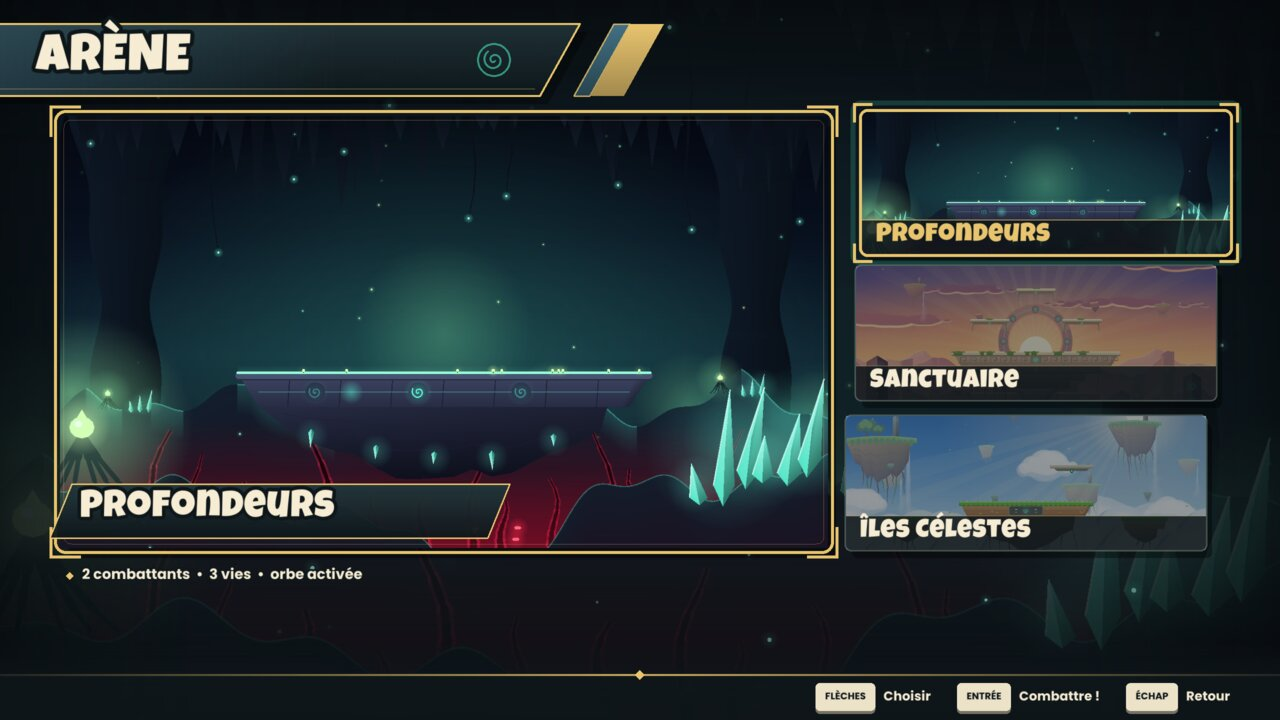
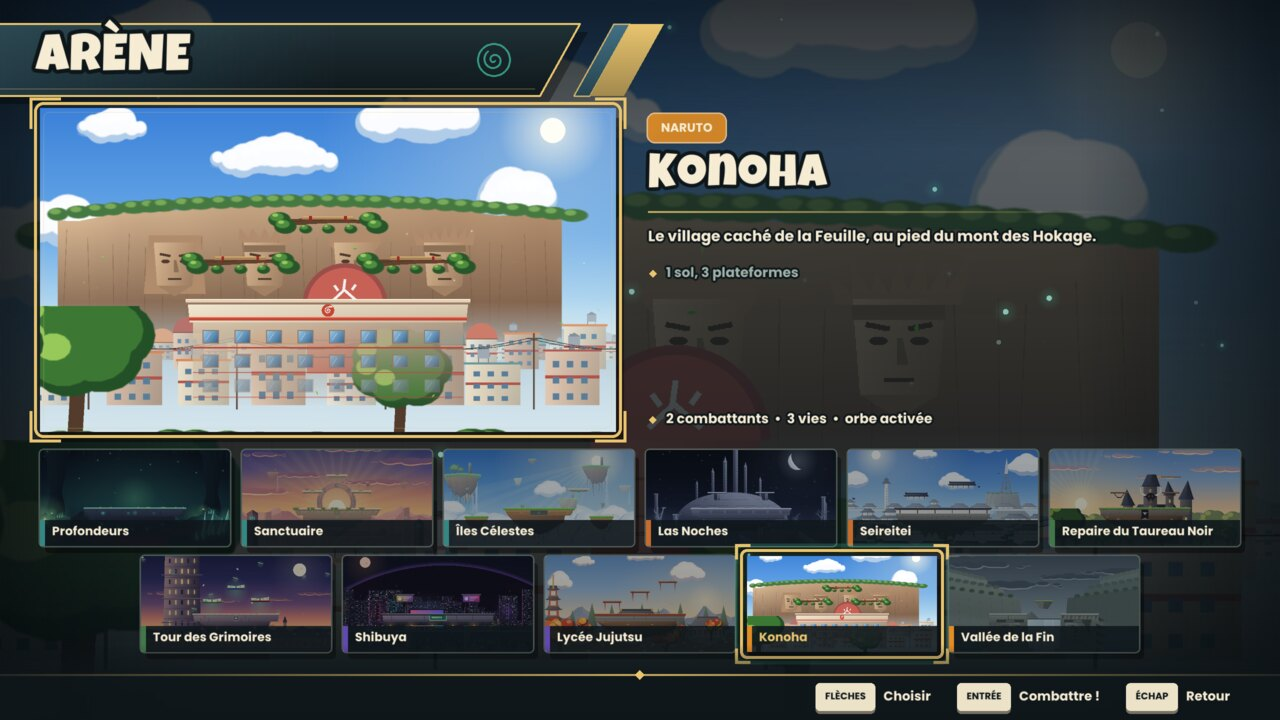
Version 6.0: README, screenshots and archives for the anime stages and new fighters
- README: 17 fighters (Grimmjow and Starrk in the table, Ichigo's new
  ultimates), 51 ultimates, the 11 stages, the new animations and effects,
  the dev filmstrips and --record, the tests on every stage.
- New screenshots: the eight anime stages, the stage select, the Valley of
  the End, Naruto's animation filmstrips; title and character select
  refreshed.
- Archive notices list the new fighters and stages; title screen and
  package script at 6.0.

Claude-Session: https://claude.ai/code/session_01FnHjUgjm12ACzaJgKtXDcE

diff --git a/src/game/screen_title.cpp b/src/game/screen_title.cpp
@@ -157,7 +157,7 @@ void App::drawTitle() {
     drawTextOutlined(txt, x, 368, 26, withAlpha(ui::kCream, a), withAlpha(ui::kInk, a), 2.5f);
     ui::prompt("ENTRÉE", ui::Btn::Start, x + textWidth(txt, 26) + 14, 381 - ph * 0.5f, ph, true);
   }
-  drawTextOutlined("v5.0", kScreenW - 54, kScreenH - 26, 15, ui::kCream, ui::kInk, 2.0f);
+  drawTextOutlined("v6.0", kScreenW - 54, kScreenH - 26, 15, ui::kCream, ui::kInk, 2.0f);
   drawTextOutlined("C++ & raylib", 16, kScreenH - 26, 15, ui::kCream, ui::kInk, 2.0f);
   if (f >= 22 && f < 40) DrawRectangle(0, 0, kScreenW, kScreenH, withAlpha({255, 248, 228, 255}, (40 - f) / 18.0f * 0.7f));
 }

diff --git a/tests/sim_test.cpp b/tests/sim_test.cpp
@@ -420,7 +420,7 @@ static void testWeapons() {
 
 // Every ultimate (bare-handed and with each weapon) hits, lets its victim go, and can KO at high percent.
 static void testAllUltimates() {
-  std::printf("[the 45 ultimates]\n");
+  std::printf("[every ultimate: 3 per fighter]\n");
   const int n = int(roster().size());
   for (int c = 0; c < n; ++c) {
     for (int slot = -1; slot <= 1; ++slot) {

diff --git a/README.md b/README.md
@@ -11,11 +11,12 @@ les arènes et les effets restent lisses. Les sons et la musique sont synthétis
 ressources sont deux polices libres et la base de manettes SDL, intégrées directement dans l'exécutable :
 il n'y a aucun fichier à installer à côté.
 
-La direction artistique des arènes s'inspire de *Zelda: Tears of the Kingdom* : îles célestes, ruines
-Zonaï aux runes turquoise, profondeurs éclairées par des racines lumineuses. Tout est dessiné par le code
-(aucune image ni logo repris d'un jeu ou d'un manga).
+Les trois arènes d'origine s'inspirent de *Zelda: Tears of the Kingdom* (îles célestes, ruines Zonaï aux
+runes turquoise, profondeurs éclairées par des racines lumineuses) et **huit autres viennent des animes** :
+deux par série, de Las Noches à la Vallée de la Fin. Tout est dessiné par le code (aucune image ni logo
+repris d'un jeu ou d'un manga).
 
-| Menu principal | Sélection des 15 combattants |
+| Menu principal | Sélection des 17 combattants |
 |---|---|
 | ![Menu principal](docs/menu.jpg) | ![Sélection](docs/selection.jpg) |
 | **Combat : Kenpachi, Sasuke, Naruto et le Chasseur** | **Cut-in d'ultime : Bijūdama (Naruto)** |
@@ -26,11 +27,24 @@ Zonaï aux runes turquoise, profondeurs éclairées par des racines lumineuses. 
 | ![Impact frame](docs/impact.jpg) | ![Entraînement](docs/entrainement.jpg) |
 | **Paramètres (pixel art)** | **Résultats** |
 | ![Paramètres](docs/parametres.jpg) | ![Résultats](docs/resultats.jpg) |
+| **Choix de l'arène : 11 arènes** | **Vallée de la Fin : Naruto contre Sasuke sur les statues** |
+| ![Choix de l'arène](docs/arene.jpg) | ![Vallée de la Fin](docs/vallee.jpg) |
 
-**Chaque ultime est unique** (45 en tout) : Vasto Lorde, Violet imaginaire, Amaterasu, Kendō, Sanctuaire
-démoniaque, Shuriken du Susanoo, Barrage Uzumaki, Fouet du Chaos, Dragon de lumière...
+**Les huit arènes des animes** : Las Noches, le Seireitei, le repaire du Taureau Noir, la Tour des
+Grimoires, Shibuya, le lycée Jujutsu, Konoha et la Vallée de la Fin.
 
-![Neuf des 45 ultimes](docs/ultimes.jpg)
+![Les huit arènes des animes](docs/arenes.jpg)
+
+**Les animations** (planche de développement `--screen anim`) : la marche et la course suivent le sol,
+Naruto court en ninja, les coups engagent tout le corps.
+
+![Animations de Naruto](docs/animations.jpg)
+
+**Chaque ultime est unique** (51 en tout) : Getsuga Tenshō, Vasto Lorde, Gran Rey Cero, Cero Metralleta,
+Violet imaginaire, Amaterasu, Kendō, Sanctuaire démoniaque, Shuriken du Susanoo, Barrage Uzumaki, Fouet du
+Chaos, Dragon de lumière...
+
+![Neuf des ultimes](docs/ultimes.jpg)
 
 ## Le jeu
 
@@ -40,16 +54,18 @@ démoniaque, Shuriken du Susanoo, Barrage Uzumaki, Fouet du Chaos, Dragon de lum
 - **Entraînement** : vies infinies face à un **mannequin** (immobile, qui saute, qui se protège, ou
   piloté par l'ordinateur), réinitialisation des positions, **compteur de combos** et dégâts du combo,
   affichage des zones de coup. Tout se règle dans le menu pause.
-- **15 combattants** inspirés de séries cultes (hommages de fans, dessinés par le code), chacun avec ses
+- **17 combattants** inspirés de séries cultes (hommages de fans, dessinés par le code), chacun avec ses
   stats, 4 attaques spéciales, **2 armes à ramasser** et **3 ultimes** : un à mains nues et un par arme.
   | | Univers | Spéciales | Ultime | Arme 1 → son ultime | Arme 2 → son ultime |
   |---|---|---|---|---|---|
   | **ASTA** | Black Clover | Lame anti-magie, Météore noir, Ouragan noir, Renvoi anti-magie (renvoie les projectiles) | Black Divider | Épée pourfendeuse → Black Meteorite (monte avec sa victime et retombe comme un météore) | Épée habitante → Union démoniaque (transformation : aile et bras du diable) |
   | **YUNO** | Black Clover | Lames de vent, Tempête tranchante (tornade qui aspire), Envol de Sylphe, Tourbillon | Tempête de Zéphyr | Grimoire à quatre trèfles → Pluie de lames (sur tous les adversaires) | Lance de l'esprit → Lance de Zéphyr (aspire tout sur son passage) |
-  | **ICHIGO** | Bleach | Getsuga Tenshō, Shunpo, Tsukiyomi, Cero (rayon) | Mugetsu (cheveux longs du Getsuga final) | Zangetsu (Shikai) → Getsuga Tenshō géant | Tensa Zangetsu (Bankai) → Vasto Lorde : il se transforme, attrape l'adversaire et lui tire un méga Cero à bout portant |
+  | **ICHIGO** | Bleach | Getsuga Tenshō, Shunpo, Tsukiyomi, Cero (rayon) | Getsuga Tenshō (un croissant géant, au Shikai) | Zangetsu (Shikai) → Getsuga Jūjishō (deux Getsuga en croix) | Tensa Zangetsu (Bankai) → Vasto Lorde : il se transforme, attrape l'adversaire et lui tire un méga Cero à bout portant |
   | **BYAKUYA** | Bleach | Senbonzakura (nuée de pétales), Senka (attaque dans le dos), Shunpo céleste, Danku | Senbonzakura Kageyoshi (immobilise tout le monde dans la tempête) | Senbonzakura (Shikai) → Gōkei (une sphère de lames autour de chaque adversaire) | Kageyoshi (Bankai) → Shūkei : Hakuteiken (ailes de lumière) |
   | **KENPACHI** | Bleach | Taille du démon (à charger), Assaut sauvage (super armure), Saut du démon, Garde ouverte (contre) | Kendō : il apparaît devant l'adversaire, le frappe puis le pourfend à deux mains | Nozarashi (Shikai) → Taille de Nozarashi (fend l'arène) | Bankai → Démon rouge (transformation : peau rouge, cornes, super armure) |
   | **ULQUIORRA** | Bleach | Cero (rayon), Sonído, Sonído céleste, Bala | Cero Oscuras | Murciélago (Resurrección) → Lanza del Relámpago (javelot qui explose) | Segunda Etapa → transformation : corps noir, ailes de chauve-souris, queue |
+  | **GRIMMJOW** | Bleach | Cero, Desgarrón (griffes de reiatsu), Sonído griffu, Garra de la Pantera | Gran Rey Cero | Pantera (zanpakutō) → « Kishire, Pantera » (libération : cheveux longs, oreilles, queue, griffes) | Griffes de Pantera → Desgarrón (cinq griffes géantes) |
+  | **STARRK** | Bleach | Cero (rayon), Los Lobos (loups qui explosent), Sonído, Rafale de ceros | Cero Metralleta | Los Lobos (la meute) → Los Lobos (toute la meute) | Lilynette → Resurrección : Los Lobos (libération : manteau de fourrure, deux pistolets) |
   | **NARUTO** | Naruto | Rasengan (à charger), Multi-clonage (un clone court sur l'ennemi), Clone tremplin, Substitution (contre) | Barrage Uzumaki (les clones l'envoient en l'air) | Mode Ermite → Rasenshuriken | Chakra de Kurama → Bijūdama (le renard à neuf queues apparaît) |
   | **SASUKE** | Naruto | Katon : boule de feu, Chidori, Garuda, Chidori Nagashi | Kirin (le dragon de foudre tombe sur l'ennemi le plus proche) | Arc de Susanoo → Flèche d'Indra (Susanoo violet) | Mangekyō Sharingan → Amaterasu (flammes noires collées à chaque adversaire) |
   | **KAKASHI** | Naruto | Suiton : dragon aqueux, Raikiri, Shunshin, Ninken : crocs (saisie) | Raikiri | Sharingan → Kamui (un vortex sur l'ennemi le plus proche) | Mangekyō double → Shuriken du Susanoo (Susanoo bleu) |
@@ -90,15 +106,34 @@ démoniaque, Shuriken du Susanoo, Barrage Uzumaki, Fouet du Chaos, Dragon de lum
   (de loin pour les ultimes qui visent, face à la cible pour les rayons).
 - **L'Orbe Clash** (l'équivalent de la Smash Ball) : elle apparaît de temps en temps et flotte au-dessus
   de l'arène. Celui qui la brise **remplit d'un coup sa barre d'ulti**.
-- **3 arènes** : **Profondeurs** (abîme, racines lumineuses et cristaux), **Sanctuaire** (temple Zonaï en
-  ruine au soleil couchant) et **Îles Célestes** (îles flottantes, cascades, plateforme mobile).
-- **Animations** : transitions fluides entre les poses, élan et accompagnement des coups, postures propres
-  aux spéciales (bander un arc, mudras, bras levé, doigt pointé, taille à deux mains...), traînées des
-  attaques, étirements au saut et tassements à l'atterrissage, capes, écharpes et cheveux qui suivent
-  le mouvement, respiration et clignements d'yeux.
-- Effets : étincelles, traînées d'éjection, rayon de K.O., tremblement d'écran, bulles quand un
-  combattant est hors-champ, caméra dynamique, compte à rebours, « GAME ! », écran de résultats,
-  transitions animées entre les écrans.
+- **11 arènes**, chacune avec sa disposition :
+  - *Zelda* : **Profondeurs** (abîme, racines lumineuses et cristaux), **Sanctuaire** (temple Zonaï en
+    ruine au soleil couchant) et **Îles Célestes** (îles flottantes, cascades, plateforme mobile) ;
+  - *Bleach* : **Las Noches** (le palais des Espada sous la lune du Hueco Mundo, du sable qui coule des
+    corniches) et le **Seireitei** (murs blancs et toits de tuiles, la tour Senzaikyū, le Sōkyoku,
+    papillons de l'enfer) ;
+  - *Black Clover* : le **repaire du Taureau Noir** (un balai magique fait des allers-retours) et la
+    **Tour des Grimoires** au crépuscule (des grimoires flottent en montant et descendant) ;
+  - *Jujutsu Kaisen* : **Shibuya** sous le voile (néons, écran géant, un train passe sur le viaduc) et
+    le **lycée Jujutsu** en automne (pagode, torii, érables, passerelles en escalier) ;
+  - *Naruto* : **Konoha** (le mont des Hokage, la tour du Hokage, des branches comme plateformes) et la
+    **Vallée de la Fin** sous la pluie (on se bat sur les têtes des statues de Hashirama et Madara, la
+    cascade entre les deux).
+- **Animations** : la marche et la course sont réglées sur la distance parcourue (le pied posé ne glisse
+  pas), avec une vraie foulée, le talon qui remonte, le genou qui monte, un rebond à chaque pas et les
+  bras qui balancent ; Naruto, Sasuke et Kakashi courent en ninja (bras en arrière), les colosses
+  chargent comme des taureaux. Les coups engagent tout le corps : épaules et hanches qui tournent, pas en
+  avant, poing libre ramené à la hanche, bras écartés pour l'équilibre des coups de pied ; les smashs
+  s'arment beaucoup plus loin. Les ultimes commencent par une concentration d'énergie (jambes écartées,
+  poings aux hanches, cri), et la caméra se resserre sur l'ultime et ses victimes. Une victime éjectée
+  se plie d'abord autour du coup avant de tournoyer. Et toujours : transitions fluides entre les poses,
+  postures propres aux spéciales, traînées des attaques, étirements et tassements, capes et cheveux qui
+  suivent le mouvement, respiration et clignements d'yeux.
+- Effets : **compteur de combos** au-dessus de la victime (« 5 COUPS ! » et les dégâts du combo), la
+  victime s'illumine de l'élément du coup (feu, foudre, ténèbres...), les coups lourds **fissurent le
+  sol** et soulèvent des débris, les éjections mortelles crépitent d'éclairs ; étincelles, traînées
+  d'éjection, rayon de K.O., tremblement d'écran, bulles quand un combattant est hors-champ, caméra
+  dynamique, compte à rebours, « GAME ! », écran de résultats, transitions animées entre les écrans.
 
 ## Paramètres
 
@@ -182,9 +217,9 @@ afficher les zones de coup. Pour voir les boutons d'une manette sans en avoir un
 
 Deux archives prêtes à lancer se fabriquent avec `scripts/package_release.sh` (dans `dist/`) :
 
-- **Linux 64 bits** (`SuperClashBros-5.0-linux-x64.tar.gz`, Ubuntu 24.04 ou plus récent) : décompresser,
+- **Linux 64 bits** (`SuperClashBros-6.0-linux-x64.tar.gz`, Ubuntu 24.04 ou plus récent) : décompresser,
   puis dans un terminal ouvert dans le dossier : `./super_clash`.
-- **Windows 64 bits** (`SuperClashBros-5.0-windows-x64.zip`) : décompresser, puis double-cliquer sur
+- **Windows 64 bits** (`SuperClashBros-6.0-windows-x64.zip`) : décompresser, puis double-cliquer sur
   `super_clash.exe` (si Windows affiche « Windows a protégé votre ordinateur » : « Informations
   complémentaires » puis « Exécuter quand même »).
 
@@ -227,11 +262,13 @@ cmake -S . -B build -DCMAKE_BUILD_TYPE=Release -DFETCHCONTENT_SOURCE_DIR_RAYLIB=
 
 ```
 super_clash --demo            # match de démonstration entre 4 ordinateurs
-super_clash --demo --fighters 7,8   # ... avec ces combattants (numéros dans la grille, de 0 à 14)
+super_clash --demo --fighters 7,8   # ... avec ces combattants (numéros dans la grille, de 0 à 16)
 super_clash --demo --fighters 6,4 --ult 1   # le premier déclenche son ultime (-1 mains nues, 0 ou 1 : arme)
 super_clash --screen menu     # démarrer sur un écran : menu, settings, css, stage, training...
-super_clash --screen poses --tab 0   # planche de poses : chaque perso au repos, avec ses armes, en marche, en course, en saut (pages 0 à 2)
-super_clash --stage 2         # arène par défaut (0, 1 ou 2)
+super_clash --screen poses --tab 0   # planche de poses : chaque perso au repos, avec ses armes, en marche, en course, en saut (pages 0 à 3)
+super_clash --screen anim --tab 32   # pellicules d'animation : combattant N/4, page N%4 (allures, jabs, smashs, spéciales et ultime)
+super_clash --stage 10        # arène par défaut (0 à 10, dans l'ordre de l'écran de choix)
+super_clash --demo --record 300 480 2 dossier   # enregistre une image sur 2 de 300 à 480 (pour des GIF)
 super_clash --debug           # zones de coup visibles
 super_clash --export-audio d  # écrit tous les sons et musiques en .wav dans le dossier d
 ```
@@ -249,8 +286,9 @@ cmake --build build-core -j
 Les tests vérifient la formule de recul, les coups, les K.O., chaque commande clavier (petit/grand saut,
 smash/tilt, aériennes, bouclier, roulade, saisie, rebord, plateformes), la barre d'ulti, l'Orbe Clash et
 l'attaque finale,
-le mode entraînement, la remontée de chaque personnage depuis le vide, des dizaines de matchs complets
-entre ordinateurs, l'équilibrage et le déterminisme. Les **45 attaques finales** (une de base et une par
+le mode entraînement, la remontée de chaque personnage depuis le vide (des deux côtés de chaque arène et
+depuis le trou de la Vallée de la Fin), des dizaines de matchs complets entre ordinateurs sur chacune des
+11 arènes, l'équilibrage et le déterminisme. Les **51 attaques finales** (une de base et une par
 arme pour chaque combattant) sont lancées une par une : chacune doit infliger des dégâts, relâcher l'adversaire qu'elle a
 attrapé et l'éjecter à 130 % (les transformations comme la Rage de Spartiate ou le Démon rouge doivent
 s'activer). Un coup porté
@@ -264,11 +302,11 @@ On peut ne lancer qu'une partie des tests : `./build-core/sim_test ults`, `cpu10
 ```
 src/core/   simulation pure (aucune dépendance)
   moves.hpp            données : hitboxes, projectiles, attaques, personnages
-  roster*.cpp          les 15 combattants, leurs attaques et leurs armes
+  roster*.cpp          les 17 combattants, leurs attaques et leurs armes
   roster_kit.hpp       outils communs pour écrire les attaques (saisies, éjections, ciné d'ulti)
-  roster_ultimates.cpp les 45 attaques finales et les transformations
+  roster_ultimates.cpp les 51 attaques finales et les transformations
   weapons.cpp          armes qui tombent du ciel, ramassage, durée
-  stage.cpp            les arènes
+  stage.cpp            les 11 arènes (disposition, zones de K.O.)
   fighter_update.cpp   machine à états des combattants (contrôles)
   fighter_physics.cpp  déplacements, collisions, atterrissages, rebords
   combat.cpp           détection des coups, recul, bouclier, contres, saisies, projectiles
@@ -292,7 +330,10 @@ src/game/   interface raylib
   render_vfx.cpp       rayons et arrière-plans des ultimes
   render_ult.cpp       cinématiques propres à chaque attaque finale, avatars des transformations
   render_fighter.cpp   poses : chaque attaque anime le membre qui porte la hitbox
-  render_world.cpp     décors, plateformes, projectiles, aperçus des arènes
+  render_world.cpp     décors des arènes Zelda, plateformes, projectiles, aperçus et vignettes des arènes
+  render_stages.cpp    les huit arènes des animes (ciel, couches en parallaxe, plateformes, pluie...)
+  paint.cpp            outils de peinture des décors (dégradés, nuages, montagnes, couches précalculées)
+  screen_poses.cpp     planches de développement (poses, pellicules d'animation)
   render_hud.cpp       pourcentages, vies, barre d'ulti, bulles hors-champ, compte à rebours
   fx.cpp               particules, rayons de K.O., tremblements, sons
   audio.cpp            synthèse des sons et de la musique
